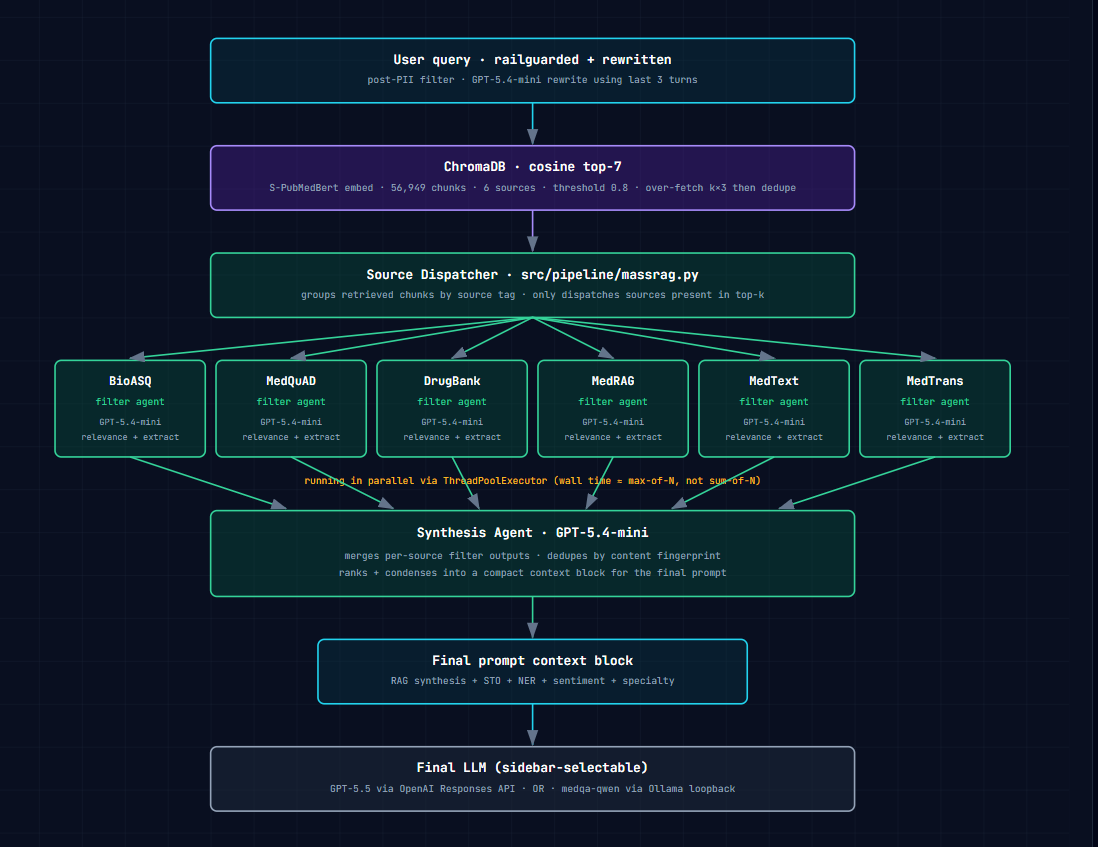
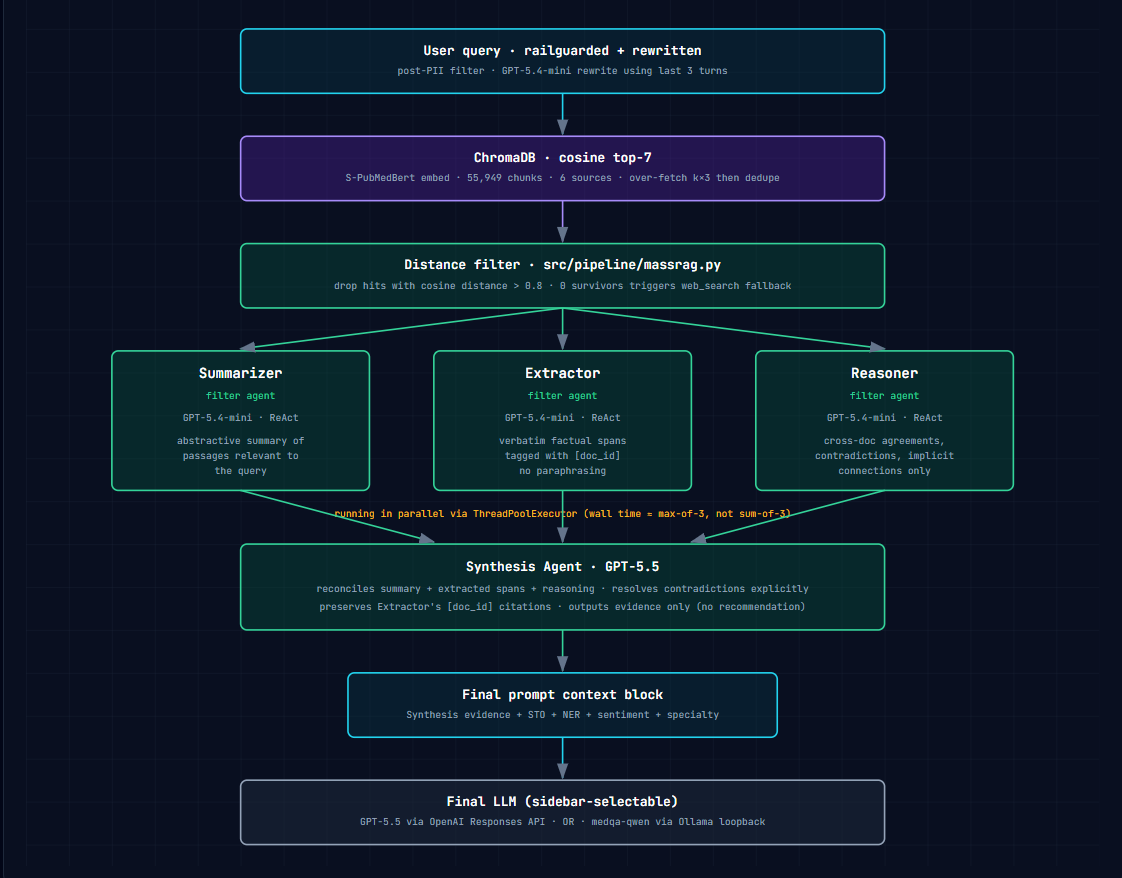
docs: adjust readme and diagrams

diff --git a/assets/architecture-massrag.html b/assets/architecture-massrag.html
@@ -57,7 +57,7 @@
           <button class="toolbar-toggle" onclick="this.parentElement.classList.toggle('expanded')" title="Export options" aria-label="Export options">⋯</button>
         </div>
       </div>
-      <p class="subtitle">query → ChromaDB top-k → per-source filter agents (parallel) → synthesis → final prompt context</p>
+      <p class="subtitle">query → ChromaDB top-k → three filter agents (Summarizer · Extractor · Reasoner) in parallel → synthesis → final prompt context</p>
     </div>
 
     <div class="diagram-container">
@@ -73,101 +73,83 @@
         <rect width="100%" height="100%" fill="url(#grid)" />
 
         <!-- Stage 1: Query input -->
-        <rect x="200" y="60" width="600" height="60" rx="6" fill="rgba(8, 51, 68, 0.4)" stroke="#22d3ee" stroke-width="1.5"/>
-        <text x="500" y="84" fill="white" font-size="12" font-weight="600" text-anchor="middle">User query · railguarded + rewritten</text>
-        <text x="500" y="102" fill="#94a3b8" font-size="9" text-anchor="middle">post-PII filter · GPT-5.4-mini rewrite using last 3 turns</text>
+        <rect x="200" y="40" width="600" height="60" rx="6" fill="rgba(8, 51, 68, 0.4)" stroke="#22d3ee" stroke-width="1.5"/>
+        <text x="500" y="64" fill="white" font-size="12" font-weight="600" text-anchor="middle">User query · railguarded + rewritten</text>
+        <text x="500" y="82" fill="#94a3b8" font-size="9" text-anchor="middle">post-PII filter · GPT-5.4-mini rewrite using last 3 turns</text>
 
         <!-- Stage 2: ChromaDB -->
-        <rect x="200" y="160" width="600" height="60" rx="6" fill="rgba(76, 29, 149, 0.4)" stroke="#a78bfa" stroke-width="1.5"/>
-        <text x="500" y="184" fill="white" font-size="12" font-weight="600" text-anchor="middle">ChromaDB · cosine top-7</text>
-        <text x="500" y="202" fill="#94a3b8" font-size="9" text-anchor="middle">S-PubMedBert embed · 56,949 chunks · 6 sources · threshold 0.8 · over-fetch k×3 then dedupe</text>
+        <rect x="200" y="140" width="600" height="60" rx="6" fill="rgba(76, 29, 149, 0.4)" stroke="#a78bfa" stroke-width="1.5"/>
+        <text x="500" y="164" fill="white" font-size="12" font-weight="600" text-anchor="middle">ChromaDB · cosine top-7</text>
+        <text x="500" y="182" fill="#94a3b8" font-size="9" text-anchor="middle">S-PubMedBert embed · 55,949 chunks · 6 sources · over-fetch k×3 then dedupe</text>
 
-        <!-- Stage 3: Dispatcher -->
-        <rect x="200" y="260" width="600" height="60" rx="6" fill="rgba(6, 78, 59, 0.4)" stroke="#34d399" stroke-width="1.5"/>
-        <text x="500" y="284" fill="white" font-size="12" font-weight="600" text-anchor="middle">Source Dispatcher · src/pipeline/massrag.py</text>
-        <text x="500" y="302" fill="#94a3b8" font-size="9" text-anchor="middle">groups retrieved chunks by source tag · only dispatches sources present in top-k</text>
+        <!-- Stage 3: Distance filter -->
+        <rect x="200" y="240" width="600" height="60" rx="6" fill="rgba(6, 78, 59, 0.4)" stroke="#34d399" stroke-width="1.5"/>
+        <text x="500" y="264" fill="white" font-size="12" font-weight="600" text-anchor="middle">Distance filter · src/pipeline/massrag.py</text>
+        <text x="500" y="282" fill="#94a3b8" font-size="9" text-anchor="middle">drop hits with cosine distance &gt; 0.8 · 0 survivors triggers web_search fallback</text>
 
-        <!-- Stage 4: 6 parallel filter agents -->
-        <rect x="55" y="360" width="140" height="90" rx="6" fill="rgba(6, 78, 59, 0.4)" stroke="#34d399" stroke-width="1.5"/>
-        <text x="125" y="383" fill="white" font-size="11" font-weight="600" text-anchor="middle">BioASQ</text>
-        <text x="125" y="402" fill="#34d399" font-size="9" text-anchor="middle">filter agent</text>
-        <text x="125" y="420" fill="#94a3b8" font-size="8" text-anchor="middle">GPT-5.4-mini</text>
-        <text x="125" y="434" fill="#94a3b8" font-size="8" text-anchor="middle">relevance + extract</text>
+        <!-- Stage 4: 3 parallel MASS-RAG agents -->
+        <rect x="80" y="340" width="240" height="130" rx="6" fill="rgba(6, 78, 59, 0.4)" stroke="#34d399" stroke-width="1.5"/>
+        <text x="200" y="365" fill="white" font-size="13" font-weight="600" text-anchor="middle">Summarizer</text>
+        <text x="200" y="385" fill="#34d399" font-size="9" text-anchor="middle">filter agent</text>
+        <text x="200" y="405" fill="#94a3b8" font-size="9" text-anchor="middle">GPT-5.4-mini · ReAct</text>
+        <text x="200" y="427" fill="#94a3b8" font-size="9" text-anchor="middle">abstractive summary of</text>
+        <text x="200" y="441" fill="#94a3b8" font-size="9" text-anchor="middle">passages relevant to</text>
+        <text x="200" y="455" fill="#94a3b8" font-size="9" text-anchor="middle">the query</text>
 
-        <rect x="205" y="360" width="140" height="90" rx="6" fill="rgba(6, 78, 59, 0.4)" stroke="#34d399" stroke-width="1.5"/>
-        <text x="275" y="383" fill="white" font-size="11" font-weight="600" text-anchor="middle">MedQuAD</text>
-        <text x="275" y="402" fill="#34d399" font-size="9" text-anchor="middle">filter agent</text>
-        <text x="275" y="420" fill="#94a3b8" font-size="8" text-anchor="middle">GPT-5.4-mini</text>
-        <text x="275" y="434" fill="#94a3b8" font-size="8" text-anchor="middle">relevance + extract</text>
+        <rect x="380" y="340" width="240" height="130" rx="6" fill="rgba(6, 78, 59, 0.4)" stroke="#34d399" stroke-width="1.5"/>
+        <text x="500" y="365" fill="white" font-size="13" font-weight="600" text-anchor="middle">Extractor</text>
+        <text x="500" y="385" fill="#34d399" font-size="9" text-anchor="middle">filter agent</text>
+        <text x="500" y="405" fill="#94a3b8" font-size="9" text-anchor="middle">GPT-5.4-mini · ReAct</text>
+        <text x="500" y="427" fill="#94a3b8" font-size="9" text-anchor="middle">verbatim factual spans</text>
+        <text x="500" y="441" fill="#94a3b8" font-size="9" text-anchor="middle">tagged with [doc_id]</text>
+        <text x="500" y="455" fill="#94a3b8" font-size="9" text-anchor="middle">no paraphrasing</text>
 
-        <rect x="355" y="360" width="140" height="90" rx="6" fill="rgba(6, 78, 59, 0.4)" stroke="#34d399" stroke-width="1.5"/>
-        <text x="425" y="383" fill="white" font-size="11" font-weight="600" text-anchor="middle">DrugBank</text>
-        <text x="425" y="402" fill="#34d399" font-size="9" text-anchor="middle">filter agent</text>
-        <text x="425" y="420" fill="#94a3b8" font-size="8" text-anchor="middle">GPT-5.4-mini</text>
-        <text x="425" y="434" fill="#94a3b8" font-size="8" text-anchor="middle">relevance + extract</text>
-
-        <rect x="505" y="360" width="140" height="90" rx="6" fill="rgba(6, 78, 59, 0.4)" stroke="#34d399" stroke-width="1.5"/>
-        <text x="575" y="383" fill="white" font-size="11" font-weight="600" text-anchor="middle">MedRAG</text>
-        <text x="575" y="402" fill="#34d399" font-size="9" text-anchor="middle">filter agent</text>
-        <text x="575" y="420" fill="#94a3b8" font-size="8" text-anchor="middle">GPT-5.4-mini</text>
-        <text x="575" y="434" fill="#94a3b8" font-size="8" text-anchor="middle">relevance + extract</text>
-
-        <rect x="655" y="360" width="140" height="90" rx="6" fill="rgba(6, 78, 59, 0.4)" stroke="#34d399" stroke-width="1.5"/>
-        <text x="725" y="383" fill="white" font-size="11" font-weight="600" text-anchor="middle">MedText</text>
-        <text x="725" y="402" fill="#34d399" font-size="9" text-anchor="middle">filter agent</text>
-        <text x="725" y="420" fill="#94a3b8" font-size="8" text-anchor="middle">GPT-5.4-mini</text>
-        <text x="725" y="434" fill="#94a3b8" font-size="8" text-anchor="middle">relevance + extract</text>
-
-        <rect x="805" y="360" width="140" height="90" rx="6" fill="rgba(6, 78, 59, 0.4)" stroke="#34d399" stroke-width="1.5"/>
-        <text x="875" y="383" fill="white" font-size="11" font-weight="600" text-anchor="middle">MedTrans</text>
-        <text x="875" y="402" fill="#34d399" font-size="9" text-anchor="middle">filter agent</text>
-        <text x="875" y="420" fill="#94a3b8" font-size="8" text-anchor="middle">GPT-5.4-mini</text>
-        <text x="875" y="434" fill="#94a3b8" font-size="8" text-anchor="middle">relevance + extract</text>
+        <rect x="680" y="340" width="240" height="130" rx="6" fill="rgba(6, 78, 59, 0.4)" stroke="#34d399" stroke-width="1.5"/>
+        <text x="800" y="365" fill="white" font-size="13" font-weight="600" text-anchor="middle">Reasoner</text>
+        <text x="800" y="385" fill="#34d399" font-size="9" text-anchor="middle">filter agent</text>
+        <text x="800" y="405" fill="#94a3b8" font-size="9" text-anchor="middle">GPT-5.4-mini · ReAct</text>
+        <text x="800" y="427" fill="#94a3b8" font-size="9" text-anchor="middle">cross-doc agreements,</text>
+        <text x="800" y="441" fill="#94a3b8" font-size="9" text-anchor="middle">contradictions, implicit</text>
+        <text x="800" y="455" fill="#94a3b8" font-size="9" text-anchor="middle">connections only</text>
 
         <!-- Parallel-execution annotation -->
-        <text x="500" y="475" fill="#fbbf24" font-size="9" text-anchor="middle">running in parallel via ThreadPoolExecutor (wall time ≈ max-of-N, not sum-of-N)</text>
+        <text x="500" y="495" fill="#fbbf24" font-size="9" text-anchor="middle">running in parallel via ThreadPoolExecutor (wall time ≈ max-of-3, not sum-of-3)</text>
 
         <!-- Stage 5: Synthesis -->
-        <rect x="200" y="500" width="600" height="80" rx="6" fill="rgba(6, 78, 59, 0.4)" stroke="#34d399" stroke-width="1.5"/>
-        <text x="500" y="525" fill="white" font-size="12" font-weight="600" text-anchor="middle">Synthesis Agent · GPT-5.4-mini</text>
-        <text x="500" y="545" fill="#94a3b8" font-size="9" text-anchor="middle">merges per-source filter outputs · dedupes by content fingerprint</text>
-        <text x="500" y="561" fill="#94a3b8" font-size="9" text-anchor="middle">ranks + condenses into a compact context block for the final prompt</text>
+        <rect x="200" y="520" width="600" height="80" rx="6" fill="rgba(6, 78, 59, 0.4)" stroke="#34d399" stroke-width="1.5"/>
+        <text x="500" y="545" fill="white" font-size="12" font-weight="600" text-anchor="middle">Synthesis Agent · GPT-5.5</text>
+        <text x="500" y="565" fill="#94a3b8" font-size="9" text-anchor="middle">reconciles summary + extracted spans + reasoning · resolves contradictions explicitly</text>
+        <text x="500" y="581" fill="#94a3b8" font-size="9" text-anchor="middle">preserves Extractor's [doc_id] citations · outputs evidence only (no recommendation)</text>
 
         <!-- Stage 6: Final prompt context -->
-        <rect x="300" y="620" width="400" height="60" rx="6" fill="rgba(8, 51, 68, 0.4)" stroke="#22d3ee" stroke-width="1.5"/>
-        <text x="500" y="644" fill="white" font-size="12" font-weight="600" text-anchor="middle">Final prompt context block</text>
-        <text x="500" y="662" fill="#94a3b8" font-size="9" text-anchor="middle">RAG synthesis + STO + NER + sentiment + specialty</text>
+        <rect x="300" y="640" width="400" height="60" rx="6" fill="rgba(8, 51, 68, 0.4)" stroke="#22d3ee" stroke-width="1.5"/>
+        <text x="500" y="664" fill="white" font-size="12" font-weight="600" text-anchor="middle">Final prompt context block</text>
+        <text x="500" y="682" fill="#94a3b8" font-size="9" text-anchor="middle">Synthesis evidence + STO + NER + sentiment + specialty</text>
 
         <!-- Stage 7: Final LLM -->
-        <rect x="200" y="720" width="600" height="60" rx="6" fill="rgba(30, 41, 59, 0.5)" stroke="#94a3b8" stroke-width="1.5"/>
-        <text x="500" y="744" fill="white" font-size="12" font-weight="600" text-anchor="middle">Final LLM (sidebar-selectable)</text>
-        <text x="500" y="762" fill="#94a3b8" font-size="9" text-anchor="middle">GPT-5.5 via OpenAI Responses API · OR · medqa-qwen via Ollama loopback</text>
+        <rect x="200" y="740" width="600" height="60" rx="6" fill="rgba(30, 41, 59, 0.5)" stroke="#94a3b8" stroke-width="1.5"/>
+        <text x="500" y="764" fill="white" font-size="12" font-weight="600" text-anchor="middle">Final LLM (sidebar-selectable)</text>
+        <text x="500" y="782" fill="#94a3b8" font-size="9" text-anchor="middle">GPT-5.5 via OpenAI Responses API · OR · medqa-qwen via Ollama loopback</text>
 
         <!-- Arrows -->
-        <line x1="500" y1="120" x2="500" y2="158" stroke="#22d3ee" stroke-width="1.5" marker-end="url(#arrowhead)"/>
-        <line x1="500" y1="220" x2="500" y2="258" stroke="#a78bfa" stroke-width="1.5" marker-end="url(#arrowhead)"/>
+        <line x1="500" y1="100" x2="500" y2="138" stroke="#22d3ee" stroke-width="1.5" marker-end="url(#arrowhead)"/>
+        <line x1="500" y1="200" x2="500" y2="238" stroke="#a78bfa" stroke-width="1.5" marker-end="url(#arrowhead)"/>
 
-        <!-- Dispatcher → 6 agents (fanout) -->
-        <line x1="500" y1="320" x2="125" y2="358" stroke="#34d399" stroke-width="1.5" marker-end="url(#arrowhead)"/>
-        <line x1="500" y1="320" x2="275" y2="358" stroke="#34d399" stroke-width="1.5" marker-end="url(#arrowhead)"/>
-        <line x1="500" y1="320" x2="425" y2="358" stroke="#34d399" stroke-width="1.5" marker-end="url(#arrowhead)"/>
-        <line x1="500" y1="320" x2="575" y2="358" stroke="#34d399" stroke-width="1.5" marker-end="url(#arrowhead)"/>
-        <line x1="500" y1="320" x2="725" y2="358" stroke="#34d399" stroke-width="1.5" marker-end="url(#arrowhead)"/>
-        <line x1="500" y1="320" x2="875" y2="358" stroke="#34d399" stroke-width="1.5" marker-end="url(#arrowhead)"/>
+        <!-- Distance filter → 3 agents (fanout) -->
+        <line x1="500" y1="300" x2="200" y2="338" stroke="#34d399" stroke-width="1.5" marker-end="url(#arrowhead)"/>
+        <line x1="500" y1="300" x2="500" y2="338" stroke="#34d399" stroke-width="1.5" marker-end="url(#arrowhead)"/>
+        <line x1="500" y1="300" x2="800" y2="338" stroke="#34d399" stroke-width="1.5" marker-end="url(#arrowhead)"/>
 
-        <!-- 6 agents → synthesis (fanin) -->
-        <line x1="125" y1="450" x2="270" y2="498" stroke="#34d399" stroke-width="1.5" marker-end="url(#arrowhead)"/>
-        <line x1="275" y1="450" x2="370" y2="498" stroke="#34d399" stroke-width="1.5" marker-end="url(#arrowhead)"/>
-        <line x1="425" y1="450" x2="450" y2="498" stroke="#34d399" stroke-width="1.5" marker-end="url(#arrowhead)"/>
-        <line x1="575" y1="450" x2="550" y2="498" stroke="#34d399" stroke-width="1.5" marker-end="url(#arrowhead)"/>
-        <line x1="725" y1="450" x2="630" y2="498" stroke="#34d399" stroke-width="1.5" marker-end="url(#arrowhead)"/>
-        <line x1="875" y1="450" x2="730" y2="498" stroke="#34d399" stroke-width="1.5" marker-end="url(#arrowhead)"/>
+        <!-- 3 agents → synthesis (fanin) -->
+        <line x1="200" y1="470" x2="380" y2="518" stroke="#34d399" stroke-width="1.5" marker-end="url(#arrowhead)"/>
+        <line x1="500" y1="470" x2="500" y2="518" stroke="#34d399" stroke-width="1.5" marker-end="url(#arrowhead)"/>
+        <line x1="800" y1="470" x2="620" y2="518" stroke="#34d399" stroke-width="1.5" marker-end="url(#arrowhead)"/>
 
         <!-- Synthesis → final prompt context -->
-        <line x1="500" y1="580" x2="500" y2="618" stroke="#34d399" stroke-width="1.5" marker-end="url(#arrowhead)"/>
+        <line x1="500" y1="600" x2="500" y2="638" stroke="#34d399" stroke-width="1.5" marker-end="url(#arrowhead)"/>
 
         <!-- Final prompt context → final LLM -->
-        <line x1="500" y1="680" x2="500" y2="718" stroke="#22d3ee" stroke-width="1.5" marker-end="url(#arrowhead)"/>
+        <line x1="500" y1="700" x2="500" y2="738" stroke="#22d3ee" stroke-width="1.5" marker-end="url(#arrowhead)"/>
       </svg>
     </div>
 
@@ -182,21 +164,23 @@
         </ul>
       </div>
       <div class="card">
-        <div class="card-header"><div class="card-dot emerald"></div><h3>Filter agents</h3></div>
+        <div class="card-header"><div class="card-dot emerald"></div><h3>Filter agents (3 roles)</h3></div>
         <ul>
-          <li>• One per source present in top-k (max 6)</li>
-          <li>• Each: GPT-5.4-mini, source-aware prompt</li>
-          <li>• Sees only its own source's chunks</li>
-          <li>• Parallel ThreadPoolExecutor, no shared state</li>
+          <li>• Summarizer: abstractive, query-relevant summary</li>
+          <li>• Extractor: verbatim spans, tagged with [doc_id]</li>
+          <li>• Reasoner: cross-doc agreement / contradiction</li>
+          <li>• All GPT-5.4-mini, ReAct scaffold, see same retained hits</li>
+          <li>• Parallel ThreadPoolExecutor (max_workers=3)</li>
         </ul>
       </div>
       <div class="card">
         <div class="card-header"><div class="card-dot cyan"></div><h3>Synthesis &amp; output</h3></div>
         <ul>
-          <li>• GPT-5.4-mini merges per-source outputs</li>
-          <li>• Deduplicates by normalised text fingerprint</li>
-          <li>• Ranks + condenses to a compact context</li>
-          <li>• Concatenated with STO/NER for final prompt</li>
+          <li>• GPT-5.5 reconciles the 3 agent outputs</li>
+          <li>• Resolves contradictions explicitly</li>
+          <li>• Preserves Extractor's [doc_id] citations</li>
+          <li>• Evidence only, no recommendation</li>
+          <li>• Concatenated with STO / NER for final prompt</li>
         </ul>
       </div>
     </div>

diff --git a/README.md b/README.md
@@ -19,7 +19,7 @@
 
 1. **End-to-end voice pipeline** → PII railguard → grounded clinical recommendation. Speak a symptom into the browser; get a recommendation in under 10 seconds. PII is masked before any LLM call.
 
-2. **Multi-agent retrieval (MASS-RAG)** over six biomedical knowledge bases (~56k cleaned chunks). Per-source filter agents fan out in parallel; a synthesis agent condenses before the final LLM call. Drops in either GPT-5.5 (cloud) or the local QLoRA Qwen via Ollama.
+2. **Multi-agent retrieval (MASS-RAG)** over six biomedical knowledge bases (~55.9k cleaned chunks). Three role-based filter agents (Summarizer · Extractor · Reasoner) fan out in parallel over the retained hits; a synthesis agent reconciles their outputs before the final LLM call. Drops in either GPT-5.5 (cloud) or the local QLoRA Qwen via Ollama.
 
 3. **QLoRA-fine-tuned Qwen2.5-1.5B vs GPT-5.5**, evaluated three ways: ROUGE / BERTScore (PubMedBERT backbone) / LLM-as-judge. Includes a written-up negative finding (template substitution beats factual improvement on surface metrics) because that's the more honest story.
 
@@ -39,7 +39,21 @@ Implementation follows the **MASS-RAG** design from [Xiao et al., 2026 (arXiv:26
 
 ![MASS-RAG architecture](assets/architecture-massrag.png)
 
-Per-source filter agents run in parallel via `ThreadPoolExecutor`, so the retrieval wall time is roughly `max(per-source agent latency)` rather than the sum. The synthesis agent then dedupes by content fingerprint and condenses everything into a single context block.
+Standard RAG dumps the top-k retrieved passages straight into the final prompt and trusts the LLM to figure out what matters. MASS-RAG inserts a layer of *three analyst agents* between retrieval and generation. Each one reads the *same* retained passages through a different lens, and a synthesis agent then reconciles their outputs into a single evidence block before the final LLM ever sees it.
+
+**The three filter agents** (all GPT-5.4-mini on a ReAct scaffold, all seeing the same retained hits):
+
+- **Summarizer** writes an abstractive, query-focused summary of what the passages say. It does not answer the question; it just compresses the relevant material.
+- **Extractor** copies *verbatim* spans from the passages and tags each with its `[doc_id]`. No paraphrasing. This is what lets the downstream answer cite source text it did not invent.
+- **Reasoner** looks across passages for agreements, contradictions, and implicit connections, with a hard rule not to bring in outside knowledge. Every inference must be grounded in the retrieved text.
+
+The three run in parallel via `ThreadPoolExecutor(max_workers=3)`, so retrieval wall time is roughly `max(agent_latency)` not the sum.
+
+**The synthesis agent** (GPT-5.5) then receives all three outputs together with the original query, reconciles them into a single coherent evidence block, resolves any contradictions the Reasoner surfaced, and preserves the Extractor's `[doc_id]` citations. Its output is evidence only (no recommendation). The downstream LLM (cloud GPT-5.5 or local QLoRA Qwen) is what produces the actual recommendation, with this evidence block plus the NER / S-T-O findings concatenated into its prompt.
+
+**Fallback path.** Hits with cosine distance > 0.8 are dropped before the agents run. If no hits survive (the knowledge base has nothing relevant), MASS-RAG is skipped entirely and the final LLM is invoked with `enable_web_search=True` plus a "no KB match" prompt instead.
+
+**Why split the read.** On long DrugBank entries or multi-paragraph BioASQ abstracts, a single-pass LLM tends to either skim the surface and miss the relevant span, or hallucinate connecting tissue. Splitting the read across three specialised roles makes the misses observable in the per-agent panels in the UI, and gives the synthesis step structured material to reconcile rather than raw text to grep through.
 
 ---
 